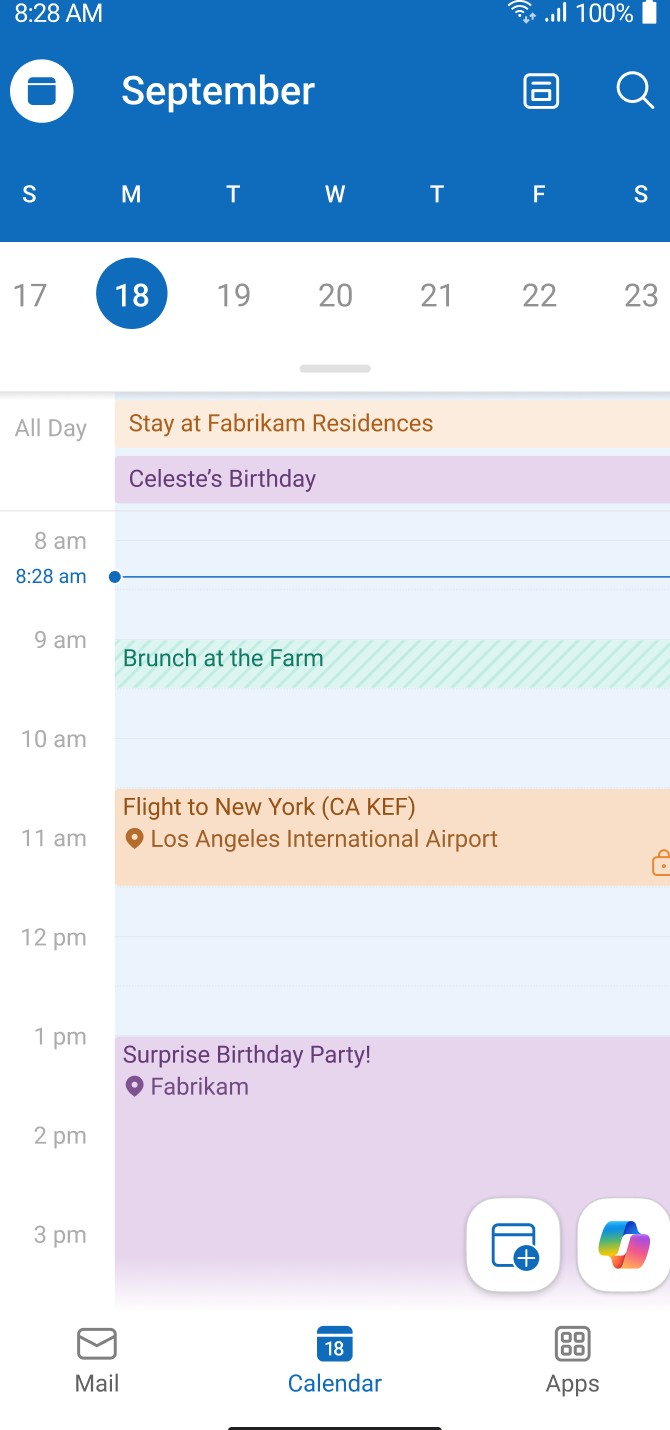
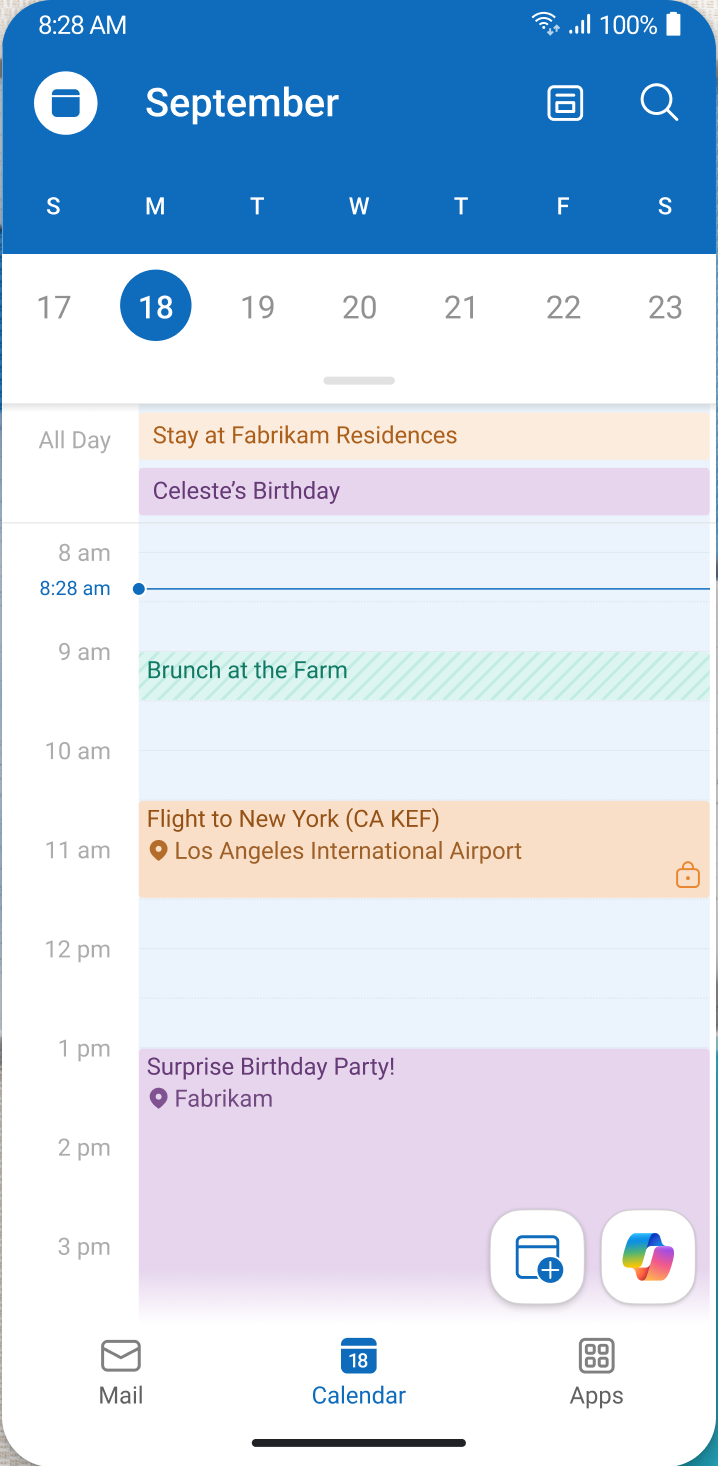
Bake Outlook screenshots into device frames

diff --git a/tools/compose-outlook-devices.swift b/tools/compose-outlook-devices.swift
@@ -1,0 +1,226 @@
+import AppKit
+
+struct DeviceSpec {
+    let source: String
+    let output: String
+    let screenColor: NSColor
+    let topBacking: CGFloat
+    let bottomMask: CGFloat
+}
+
+func compose(_ spec: DeviceSpec) throws {
+    guard
+        let sourceImage = NSImage(contentsOfFile: spec.source),
+        let source = sourceImage.cgImage(
+            forProposedRect: nil,
+            context: nil,
+            hints: nil
+        )
+    else {
+        throw NSError(
+            domain: "ComposeOutlookDevices",
+            code: 1,
+            userInfo: [NSLocalizedDescriptionKey: "Could not read \(spec.source)"]
+        )
+    }
+
+    let screenWidth: CGFloat = 668
+    let imageHeight =
+        screenWidth * CGFloat(source.height) / CGFloat(source.width)
+    let screenHeight = imageHeight + spec.topBacking
+    let shellWidth: CGFloat = 724
+    let shellHeight = screenHeight + 78
+    let canvasWidth: CGFloat = 840
+    let canvasHeight = shellHeight + 116
+    let shellRect = NSRect(
+        x: (canvasWidth - shellWidth) / 2,
+        y: 58,
+        width: shellWidth,
+        height: shellHeight
+    )
+    let screenRect = NSRect(
+        x: (canvasWidth - screenWidth) / 2,
+        y: 82,
+        width: screenWidth,
+        height: screenHeight
+    )
+    let imageRect = NSRect(
+        x: screenRect.minX - 4,
+        y: screenRect.minY,
+        width: screenRect.width + 8,
+        height: imageHeight
+    )
+    let screenRadius: CGFloat = spec.topBacking > 0 ? 16 : 38
+    let sourceRadius: CGFloat = spec.topBacking > 0 ? 64 : screenRadius
+
+    guard let bitmap = NSBitmapImageRep(
+        bitmapDataPlanes: nil,
+        pixelsWide: Int(canvasWidth.rounded()),
+        pixelsHigh: Int(canvasHeight.rounded()),
+        bitsPerSample: 8,
+        samplesPerPixel: 4,
+        hasAlpha: true,
+        isPlanar: false,
+        colorSpaceName: .deviceRGB,
+        bytesPerRow: 0,
+        bitsPerPixel: 0
+    ) else {
+        throw NSError(
+            domain: "ComposeOutlookDevices",
+            code: 2,
+            userInfo: [NSLocalizedDescriptionKey: "Could not create bitmap"]
+        )
+    }
+
+    NSGraphicsContext.saveGraphicsState()
+    defer { NSGraphicsContext.restoreGraphicsState() }
+
+    let graphics = NSGraphicsContext(bitmapImageRep: bitmap)
+    graphics?.imageInterpolation = .high
+    graphics?.shouldAntialias = true
+    NSGraphicsContext.current = graphics
+
+    NSColor.clear.setFill()
+    NSRect(x: 0, y: 0, width: canvasWidth, height: canvasHeight).fill()
+
+    NSGraphicsContext.saveGraphicsState()
+    let shadow = NSShadow()
+    shadow.shadowColor = NSColor.black.withAlphaComponent(0.22)
+    shadow.shadowBlurRadius = 28
+    shadow.shadowOffset = NSSize(width: 0, height: -16)
+    shadow.set()
+    NSColor.white.setFill()
+    NSBezierPath(roundedRect: shellRect, xRadius: 58, yRadius: 58).fill()
+    NSGraphicsContext.restoreGraphicsState()
+
+    let shellBorder = NSBezierPath(
+        roundedRect: shellRect,
+        xRadius: 58,
+        yRadius: 58
+    )
+    shellBorder.lineWidth = 2
+    NSColor(calibratedWhite: 0.77, alpha: 0.55).setStroke()
+    shellBorder.stroke()
+
+    NSGraphicsContext.saveGraphicsState()
+    let screenPath = NSBezierPath(
+        roundedRect: screenRect,
+        xRadius: screenRadius,
+        yRadius: screenRadius
+    )
+    screenPath.addClip()
+    (spec.topBacking > 0 ? NSColor.white : spec.screenColor).setFill()
+    screenRect.fill()
+    if spec.topBacking > 0 {
+        spec.screenColor.setFill()
+        NSRect(
+            x: screenRect.minX,
+            y: screenRect.maxY - 96,
+            width: screenRect.width,
+            height: 96
+        ).fill()
+    }
+    NSGraphicsContext.saveGraphicsState()
+    NSBezierPath(
+        roundedRect: NSRect(
+            x: screenRect.minX,
+            y: screenRect.minY,
+            width: screenRect.width,
+            height: imageHeight
+        ),
+        xRadius: sourceRadius,
+        yRadius: sourceRadius
+    ).addClip()
+    sourceImage.draw(
+        in: imageRect,
+        from: NSRect(
+            x: 0,
+            y: 0,
+            width: CGFloat(source.width),
+            height: CGFloat(source.height)
+        ),
+        operation: .sourceOver,
+        fraction: 1,
+        respectFlipped: true,
+        hints: [.interpolation: NSImageInterpolation.high]
+    )
+    NSGraphicsContext.restoreGraphicsState()
+    if spec.topBacking > 0 {
+        spec.screenColor.setFill()
+        NSRect(
+            x: screenRect.minX,
+            y: imageRect.maxY - 3,
+            width: screenRect.width,
+            height: spec.topBacking + 3
+        ).fill()
+    }
+    if spec.bottomMask > 0 {
+        NSColor.white.setFill()
+        NSRect(
+            x: screenRect.minX,
+            y: screenRect.minY,
+            width: screenRect.width,
+            height: spec.bottomMask
+        ).fill()
+    }
+    NSGraphicsContext.restoreGraphicsState()
+
+    if spec.topBacking == 0 {
+        let screenBorder = NSBezierPath(
+            roundedRect: screenRect,
+            xRadius: screenRadius,
+            yRadius: screenRadius
+        )
+        screenBorder.lineWidth = 1
+        NSColor(calibratedWhite: 0.70, alpha: 0.32).setStroke()
+        screenBorder.stroke()
+    }
+
+    let speakerRect = NSRect(
+        x: (canvasWidth - 112) / 2,
+        y: shellRect.maxY - 26,
+        width: 112,
+        height: 7
+    )
+    NSColor(calibratedWhite: 0.68, alpha: 0.75).setFill()
+    NSBezierPath(roundedRect: speakerRect, xRadius: 4, yRadius: 4).fill()
+
+    guard let data = bitmap.representation(using: .png, properties: [:]) else {
+        throw NSError(
+            domain: "ComposeOutlookDevices",
+            code: 3,
+            userInfo: [NSLocalizedDescriptionKey: "Could not encode PNG"]
+        )
+    }
+    try data.write(to: URL(fileURLWithPath: spec.output))
+}
+
+let root = FileManager.default.currentDirectoryPath
+let projectImages = "\(root)/public/images/projects"
+let specs = [
+    DeviceSpec(
+        source: "\(projectImages)/outlook-dark-inbox.png",
+        output: "\(projectImages)/outlook-device-dark-inbox.png",
+        screenColor: .black,
+        topBacking: 0,
+        bottomMask: 0
+    ),
+    DeviceSpec(
+        source: "\(projectImages)/outlook-inbox.png",
+        output: "\(projectImages)/outlook-device-inbox.png",
+        screenColor: NSColor(srgbRed: 15 / 255, green: 108 / 255, blue: 189 / 255, alpha: 1),
+        topBacking: 14,
+        bottomMask: 18
+    ),
+    DeviceSpec(
+        source: "\(projectImages)/outlook-calendar.png",
+        output: "\(projectImages)/outlook-device-calendar.png",
+        screenColor: NSColor(srgbRed: 15 / 255, green: 108 / 255, blue: 189 / 255, alpha: 1),
+        topBacking: 14,
+        bottomMask: 0
+    ),
+]
+
+for spec in specs {
+    try compose(spec)
+}

diff --git a/src/App.jsx b/src/App.jsx
@@ -450,33 +450,27 @@ function PrototypeVisual({ title, visual }) {
         aria-label="Outlook Mobile dark and light inbox, and calendar screens"
       >
         <div className="outlook-phone-stack" aria-hidden="true">
-          <div className="outlook-phone outlook-phone-left">
-            <span className="outlook-phone-speaker" />
-            <img
-              src="/images/projects/outlook-dark-inbox.png"
-              alt=""
-              width="306"
-              height="544"
-            />
-          </div>
-          <div className="outlook-phone outlook-phone-center">
-            <span className="outlook-phone-speaker" />
-            <img
-              src="/images/projects/outlook-inbox.png"
-              alt=""
-              width="610"
-              height="1345"
-            />
-          </div>
-          <div className="outlook-phone outlook-phone-calendar">
-            <span className="outlook-phone-speaker" />
-            <img
-              src="/images/projects/outlook-calendar.png"
-              alt=""
-              width="670"
-              height="1430"
-            />
-          </div>
+          <img
+            className="outlook-phone outlook-phone-left"
+            src="/images/projects/outlook-device-dark-inbox.png"
+            alt=""
+            width="840"
+            height="1382"
+          />
+          <img
+            className="outlook-phone outlook-phone-center"
+            src="/images/projects/outlook-device-inbox.png"
+            alt=""
+            width="840"
+            height="1655"
+          />
+          <img
+            className="outlook-phone outlook-phone-calendar"
+            src="/images/projects/outlook-device-calendar.png"
+            alt=""
+            width="840"
+            height="1572"
+          />
         </div>
       </div>
     );

diff --git a/src/styles.css b/src/styles.css
@@ -1189,57 +1189,9 @@ button:focus-visible {
 
 .outlook-phone {
   position: absolute;
-  overflow: hidden;
   width: 29%;
-  box-sizing: border-box;
-  padding: 20px 8px 8px;
-  border: 1px solid rgb(115 130 140 / 22%);
-  border-radius: 24px;
-  background: #f8fbfd;
-  box-shadow:
-    0 0 0 5px #fff,
-    0 26px 42px rgb(20 30 34 / 24%);
-  transform-origin: 50% 100%;
-}
-
-.outlook-phone img {
-  display: block;
-  width: 100%;
   height: auto;
-  border-radius: 8px;
-  background: #fff;
-}
-
-.outlook-phone-center img,
-.outlook-phone-calendar img {
-  position: relative;
-  z-index: 1;
-  box-sizing: border-box;
-  border-top: 5px solid #0f6cbd;
-}
-
-.outlook-phone-center::after,
-.outlook-phone-calendar::after {
-  position: absolute;
-  z-index: 0;
-  top: 20px;
-  right: 8px;
-  left: 8px;
-  height: 16px;
-  background: #0f6cbd;
-  content: "";
-}
-
-.outlook-phone-speaker {
-  position: absolute;
-  top: 8px;
-  left: 50%;
-  z-index: 2;
-  width: 22%;
-  height: 3px;
-  border-radius: 999px;
-  background: #bdc7cc;
-  transform: translateX(-50%);
+  transform-origin: 50% 100%;
 }
 
 .outlook-phone-left {
@@ -2089,10 +2041,6 @@ button:focus-visible {
 
   .outlook-phone {
     width: 31%;
-    border-radius: 19px;
-    box-shadow:
-      0 0 0 4px #fff,
-      0 20px 32px rgb(20 30 34 / 24%);
   }
 
   .outlook-phone-center {
